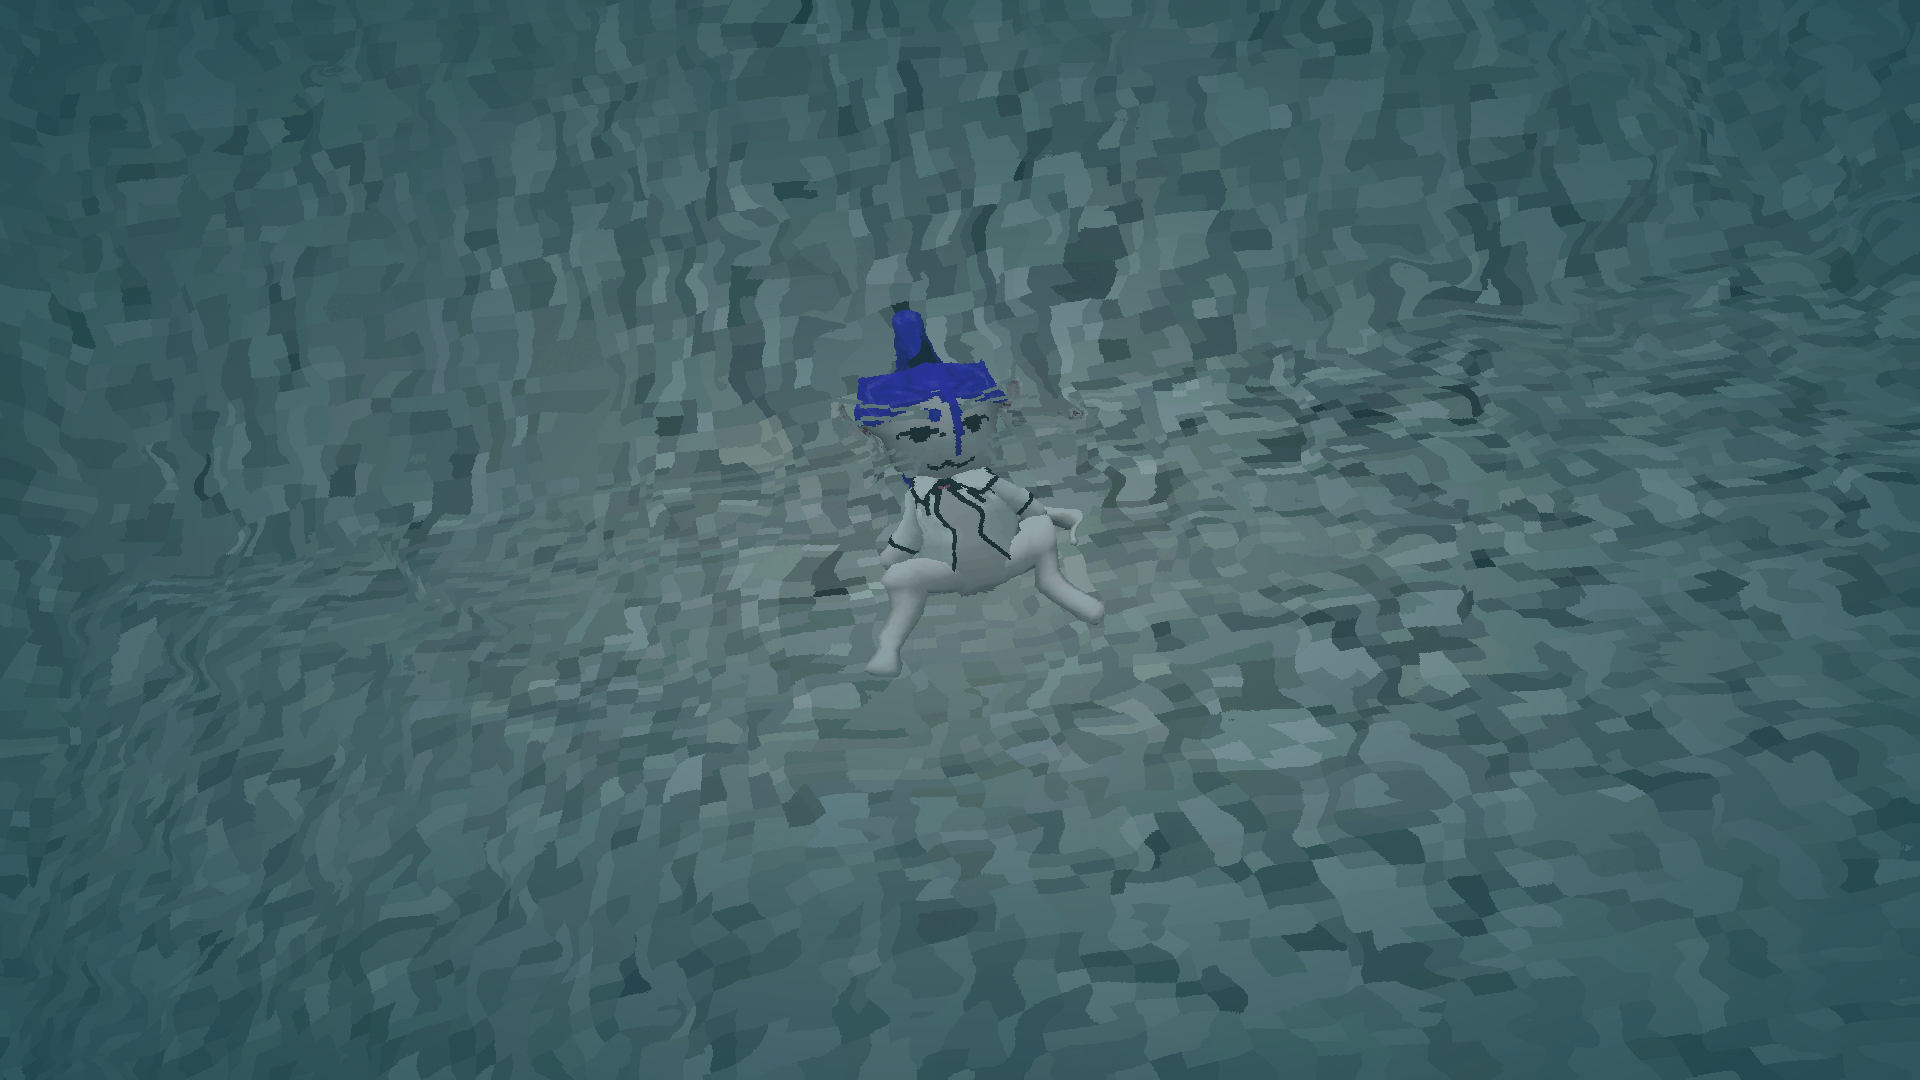
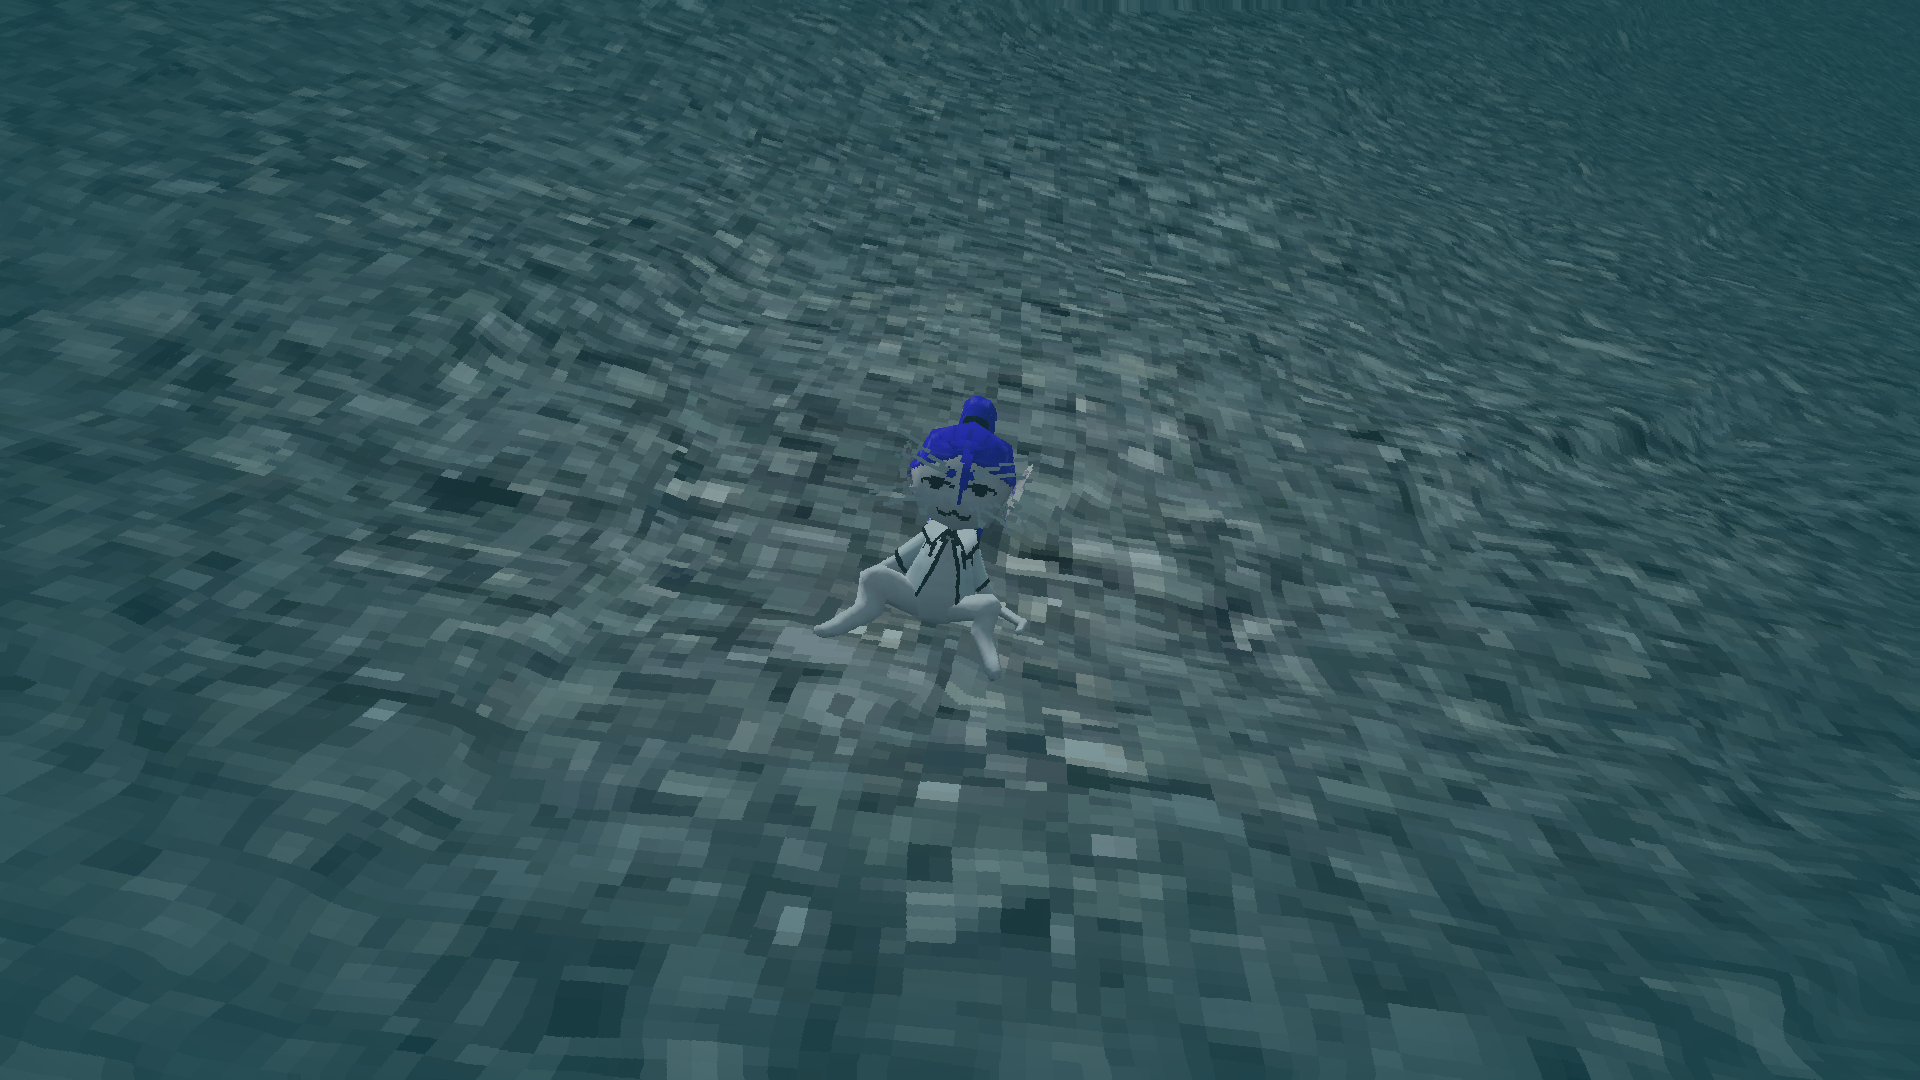
fov bug is fixed, remove disclaimers

diff --git a/dat_points.js b/dat_points.js
@@ -356,8 +356,8 @@ const points = [
     },
     {
         "name": "Blue Argemia",
-        "description": "In the river near quebec.<br><br><u>Note</u>: Due to the map changes in v8.0, the plushie may have been pulled down the river by the current. Make sure to inspect a good distance up-stream if you can't find it.",
-        "related_images" : ['./images/blueArgemia1_1.png', './images/blueArgemia1_2.png'],
+        "description": "In the river near quebec.",
+        "related_images" : ['./images/blueArgemia1_1.png'],
         "category": "Plushes",
         "icon": "./icons/blue_argemia.png",
         "xPos": -315,
@@ -592,7 +592,7 @@ const points = [
     },
     {
         "name": "Burger #10",
-        "description": "Under the bridge near the base.<br>Depending on your graphics settings, the burger might look like it's under the ground.",
+        "description": "Under the bridge near the base.",
         "related_images" : ["./images/burger10_1.png"],
         "category": "Chicken Burgers",
         "icon": "./icons/burger.png",
@@ -691,7 +691,7 @@ const points = [
     },
     {
         "name": "Burger #21",
-        "description": "In a group of rocks behind Wiskey.<br>Depending on your graphics settings, the burger might look like it's under the ground.",
+        "description": "In a group of rocks behind Wiskey.",
         "related_images" : ["./images/burger21_1.png"],
         "category": "Chicken Burgers",
         "icon": "./icons/burger.png",
